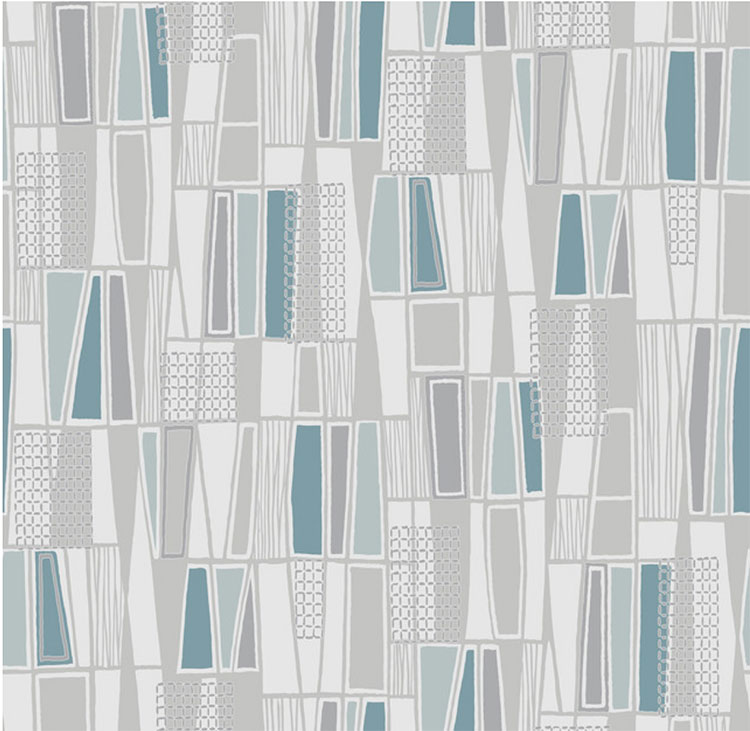
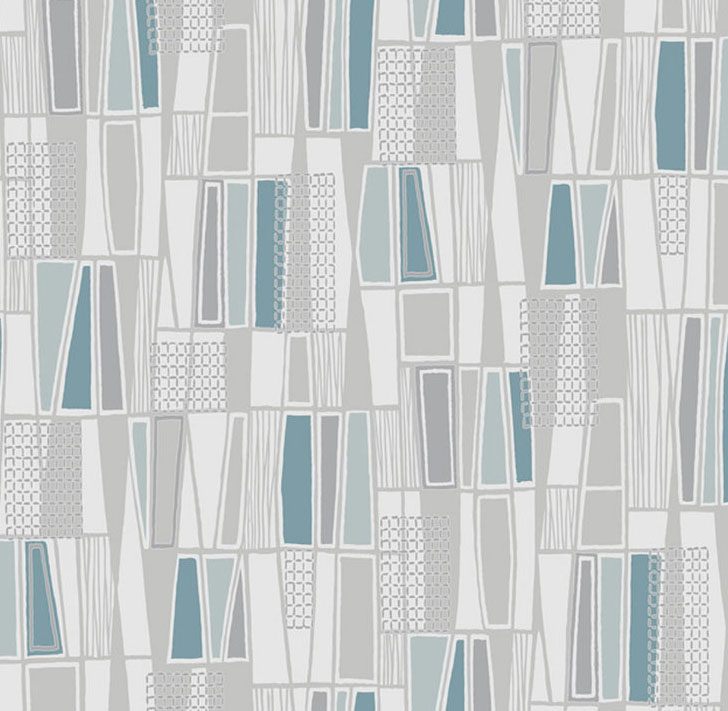
updated bg

diff --git a/index.html b/index.html
@@ -46,7 +46,7 @@
                         <div class="card" id="main-content">
                             <h2 class="card-header" id="title">About Me</h2>
                             <div class="card-body">
-                                <img id="Profile" src="https://i.imgur.com/4D25vo1.jpg" alt="a picture of my cat and me" title="Mimikyu gives best cuddles">
+                                <img id="Profile" src="assets/images/mimikyu.jpg" alt="a picture of my cat and me" title="Mimikyu gives best cuddles">
                                 <p class="card-text">
                                     <h3>Brief History</h3>
                                     Hello! My name is Shelby De Oliveira Cignetti. I am a student at Georgia Tech Bootcamp for Coding. I have a Bachelor’s in Fine Arts. I have a cat name Mimikyu and she was a stray. I was born in Pittsburgh, Pennsylvania where I lived in Latrobe, Pennsylvania until 2002. Then I moved to the Golden Isles in Southeast Georgia. 

diff --git a/assets/css/base.css b/assets/css/base.css
@@ -12,11 +12,10 @@ h4, h3{
 /* body section*/
 
 body {
-    background-image: url("../images/blue-retro.jpg");
+    background-image: url("../images/email-pattern.png");
     background-color: #b5caf7;
     font-family: 'Rubik', sans-serif;
     padding-bottom: 60px;
-    display: grid;
 }
 
 /* header section*/
